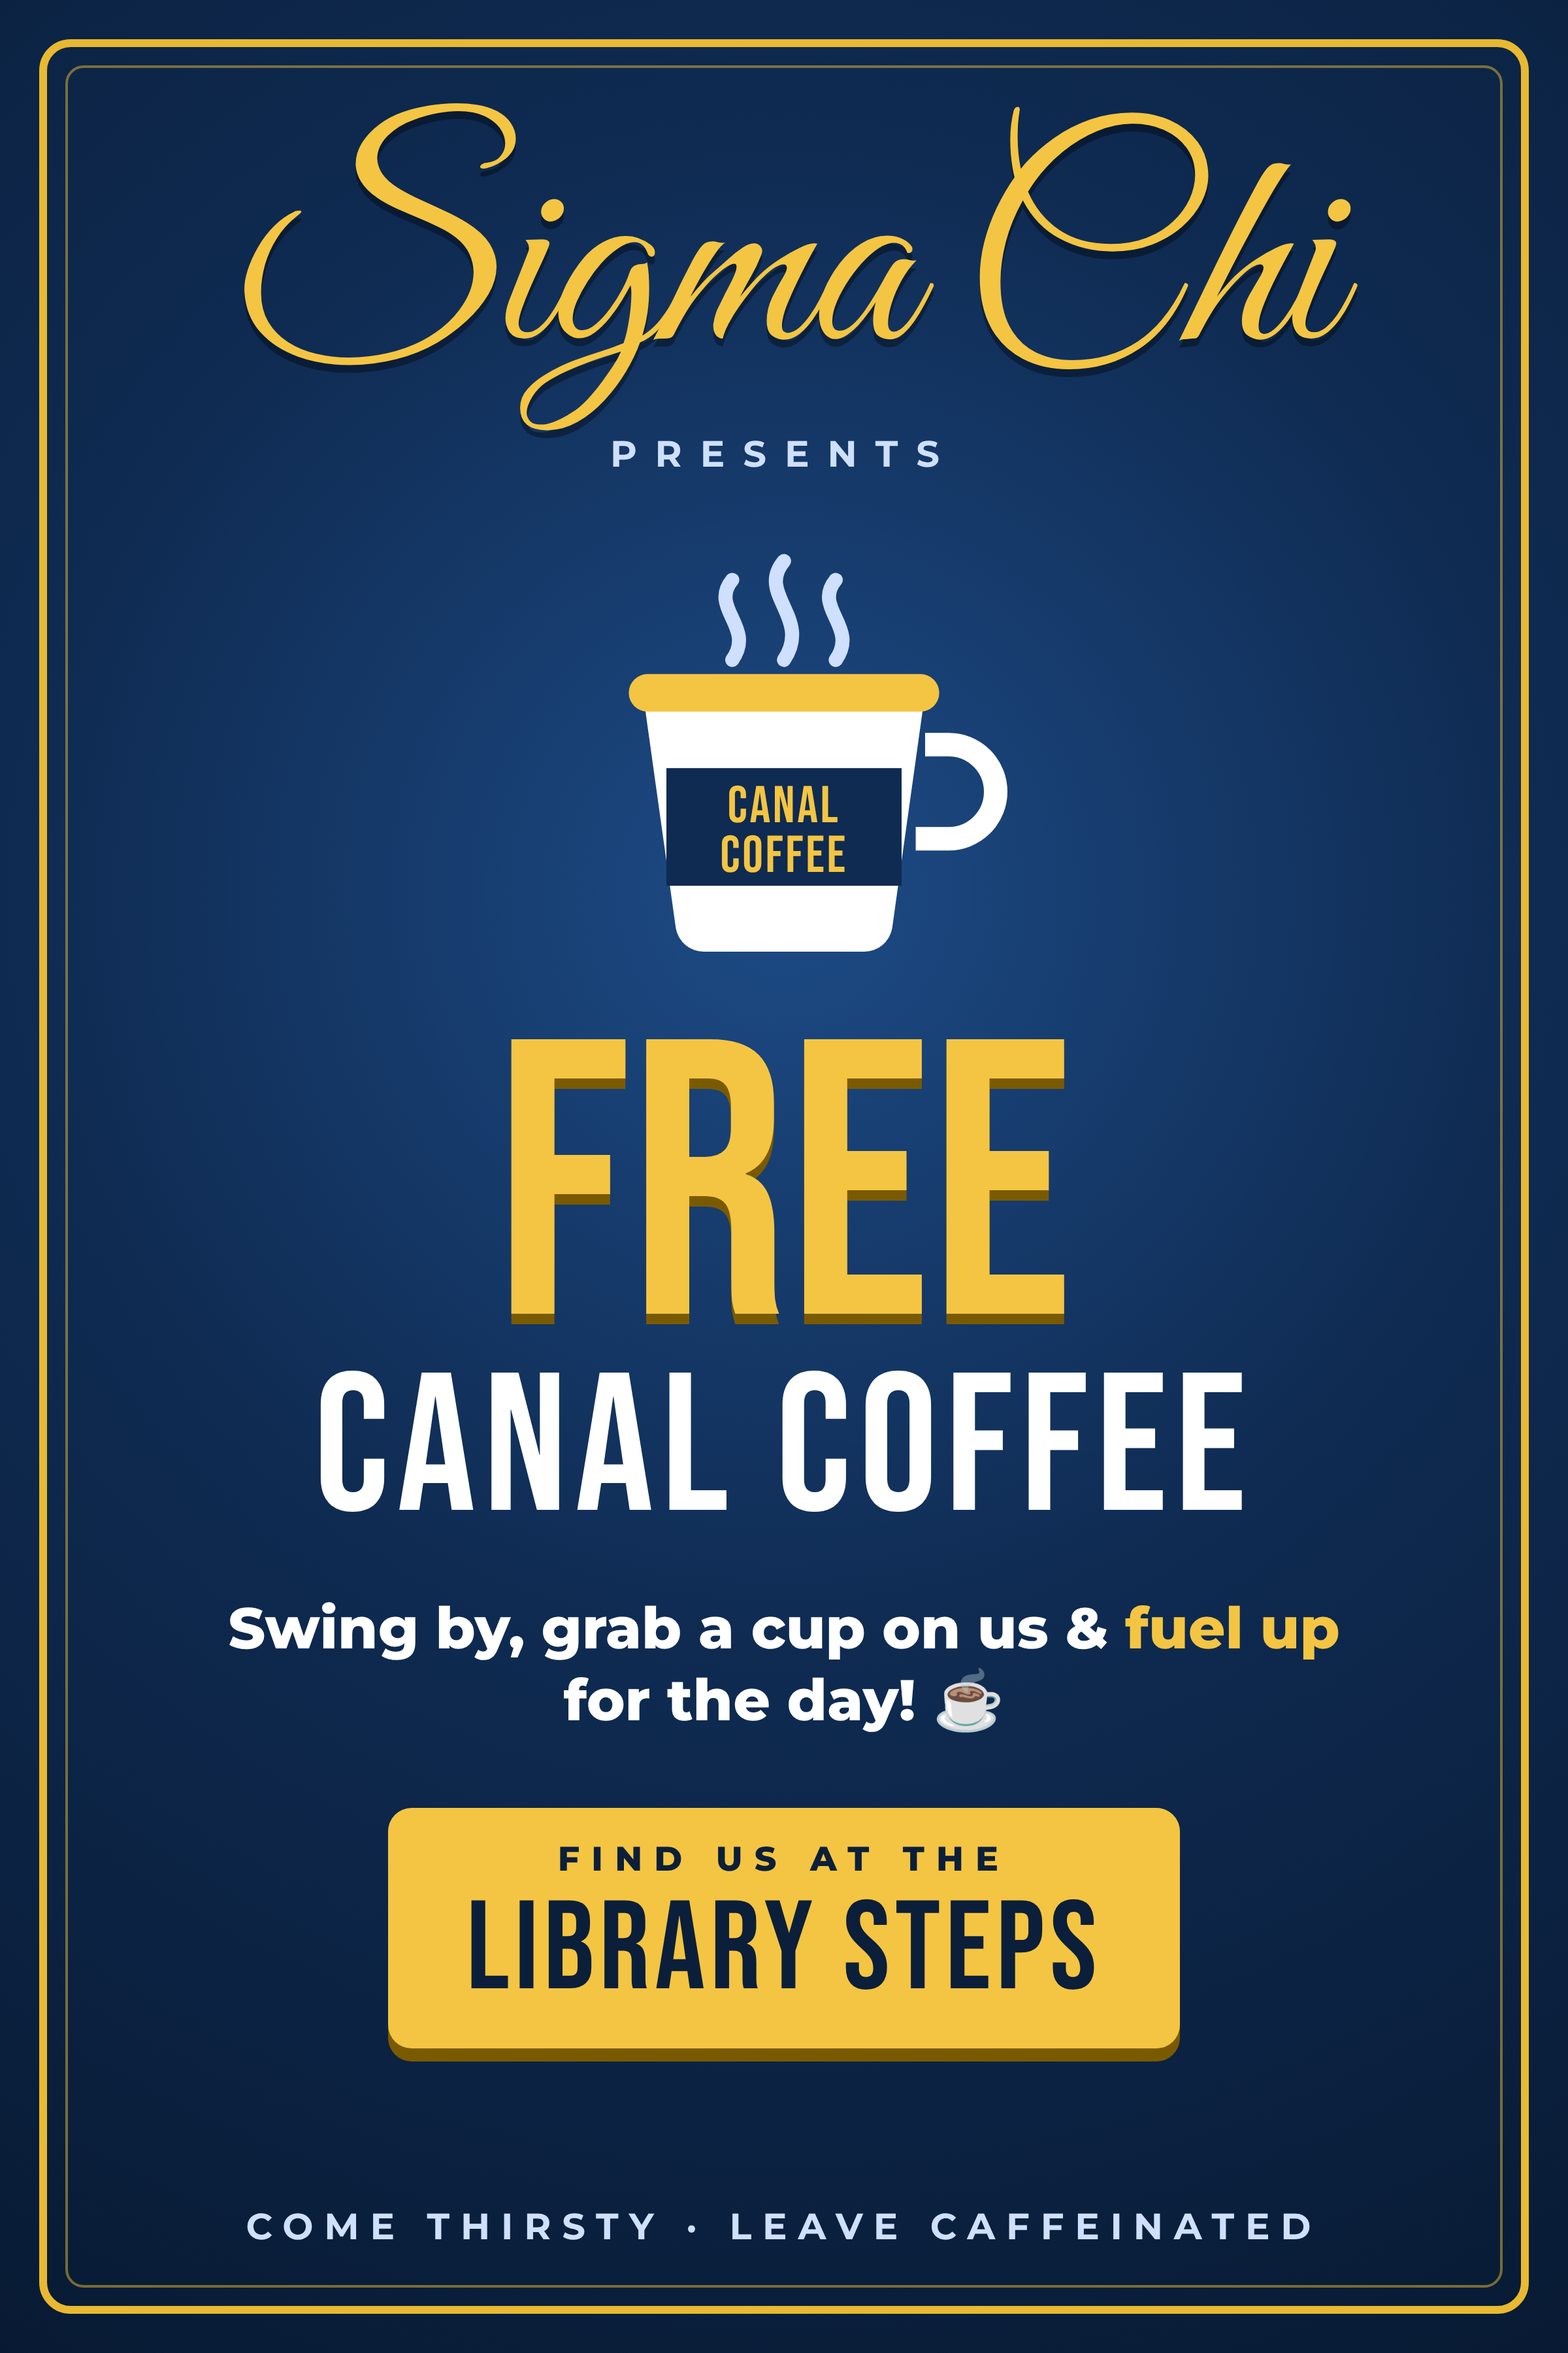
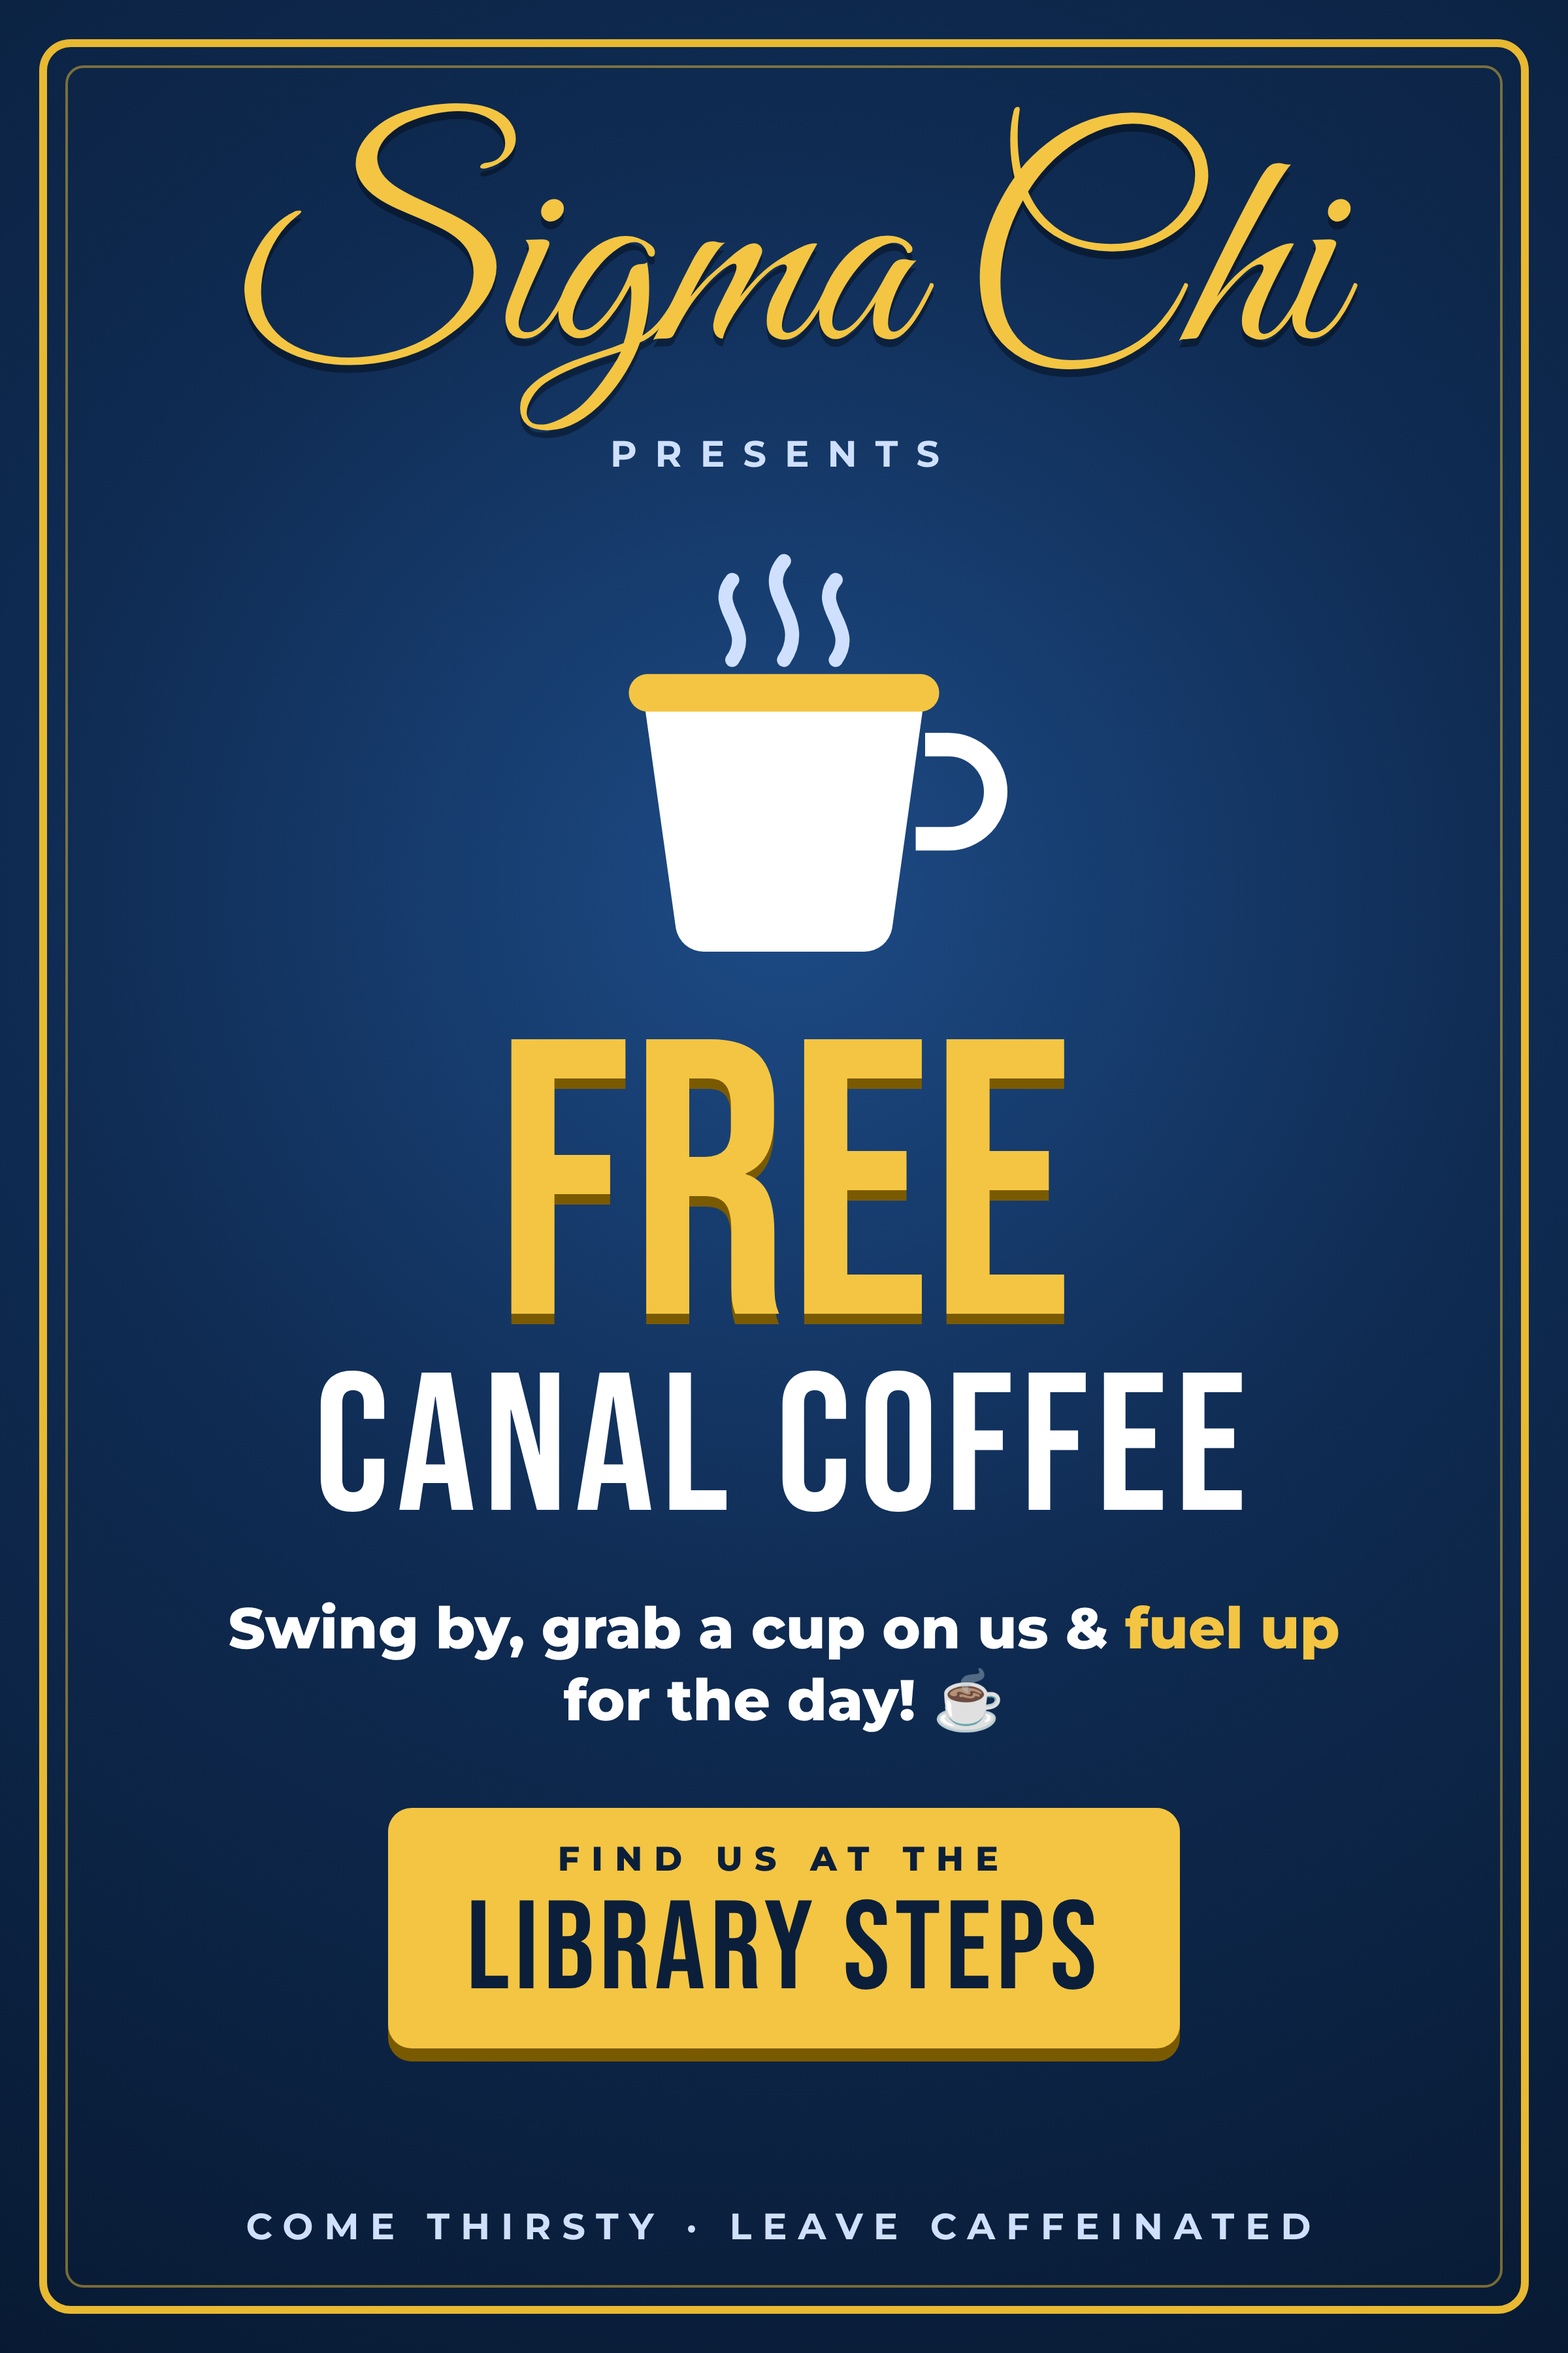
Remove label band from the poster's coffee cup
Claude-Session: https://claude.ai/code/session_017HSKiMjUtMhEwVyVNB6uJx

Changed region(s): [[0.4062, 0.3111, 0.5938, 0.4044]]

diff --git a/canal-coffee-poster/poster.html b/canal-coffee-poster/poster.html
@@ -33,9 +33,6 @@
     <path d="M40 70h120l-14 100a12 12 0 0 1-12 10H66a12 12 0 0 1-12-10z" fill="#fff"/>
     <rect x="34" y="62" width="132" height="16" rx="8" fill="#f4c542"/>
     <path d="M160 92h10a20 20 0 0 1 0 40h-14" fill="none" stroke="#fff" stroke-width="10"/>
-    <rect x="50" y="102" width="100" height="50" fill="#0f2b52"/>
-    <text x="100" y="125" text-anchor="middle" font-family="Bebas Neue" font-size="22" letter-spacing="1" fill="#f4c542">CANAL</text>
-    <text x="100" y="146" text-anchor="middle" font-family="Bebas Neue" font-size="22" letter-spacing="1" fill="#f4c542">COFFEE</text>
   </svg>
   <div class="free">FREE</div>
   <div class="brand">CANAL COFFEE</div>
